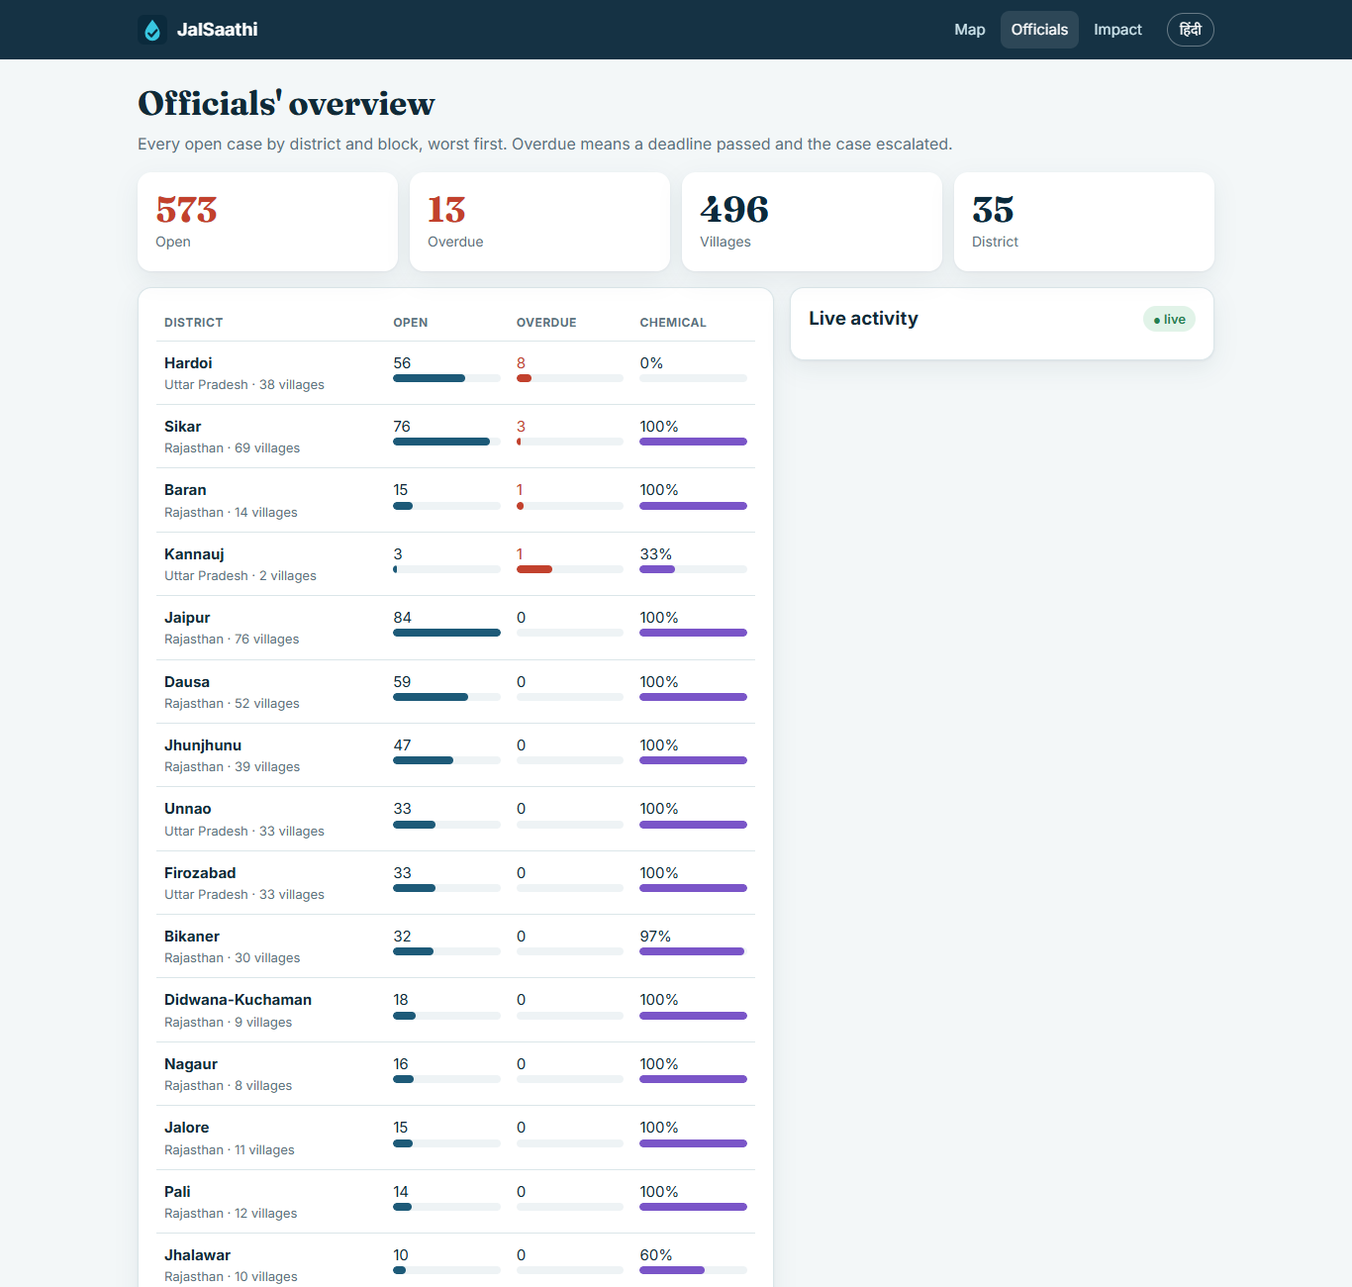
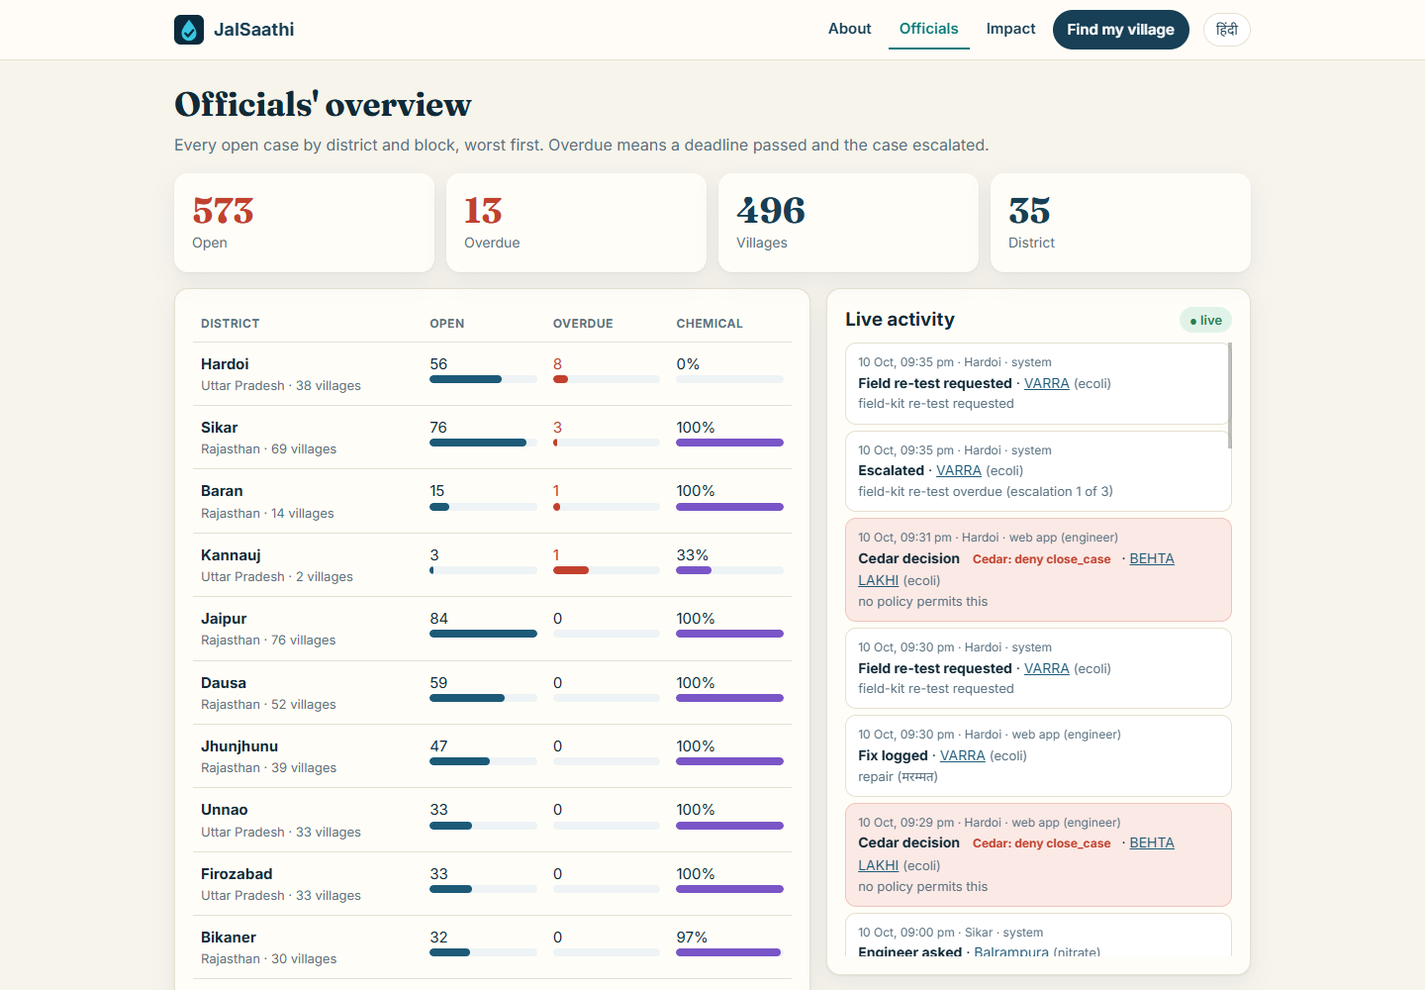
docs: README to judging standard; /app restyled to the shared identity
- README: live try-it links, results at a glance (strong and weak numbers with
  sources), the problem with citations, how it works with screenshots, a
  mermaid architecture, every AWS service and its job, AWS open source used,
  safety and honesty, run/deploy, team and credits, AI tools
- docs/img: fresh screenshots of the live site (real-browser waits)
- app/: ivory/ink tokens and a light header matching the village site; nav
  goes back to About and Find my village

diff --git a/app/src/styles.css b/app/src/styles.css
@@ -1,12 +1,14 @@
 :root {
-  --ink: #0b2a3c;
+  --ink: #173f55;
   --ink-2: #134159;
   --ink-3: #1d5a78;
   --water: #38c6e0;
   --water-soft: #d9f4f9;
-  --paper: #f3f7f8;
-  --card: #ffffff;
-  --line: #dbe6e9;
+  --paper: #f7f4ec;
+  --card: #fffdf8;
+  --line: #e7e0d0;
+  --teal: #087a79;
+  --gold: #c9a66b;
   --text: #102a37;
   --muted: #587080;
   --red: #c2412d;
@@ -40,15 +42,18 @@ html[lang="hi"] .display { font-family: "Noto Sans Devanagari", var(--display); 
 .spacer { flex: 1; }
 
 /* Header */
-.top { position: sticky; top: 0; z-index: 20; background: rgba(11, 42, 60, 0.96); backdrop-filter: blur(8px); color: #fff; }
+.top { position: sticky; top: 0; z-index: 20; background: rgba(255, 253, 248, 0.94); backdrop-filter: blur(8px); color: var(--ink); border-bottom: 1px solid var(--line); }
 .top .wrap { display: flex; align-items: center; gap: 14px; height: 60px; }
-.brand { display: flex; align-items: center; gap: 10px; color: #fff; text-decoration: none; font-weight: 700; font-size: 18px; }
+.brand { display: flex; align-items: center; gap: 10px; color: var(--ink); text-decoration: none; font-weight: 700; font-size: 18px; }
 .brand img { width: 30px; height: 30px; }
-.nav { display: flex; gap: 4px; margin-left: auto; }
-.nav a { color: #cfe6ee; text-decoration: none; padding: 7px 11px; border-radius: 9px; font-size: 15px; }
-.nav a.active, .nav a:hover { background: rgba(255, 255, 255, 0.1); color: #fff; }
-.lang { border: 1px solid rgba(255, 255, 255, 0.35); background: transparent; color: #fff; border-radius: 99px; padding: 5px 12px; font-size: 14px; }
-@media (max-width: 640px) { .nav a { padding: 6px 7px; font-size: 14px; } .brand span { display: none; } }
+.nav { display: flex; align-items: center; gap: 6px; margin-left: auto; }
+.nav a { color: var(--ink); text-decoration: none; padding: 7px 11px; border-radius: 9px; font-size: 15px; font-weight: 600; border-bottom: 2px solid transparent; }
+.nav a.active, .nav a:hover { color: var(--teal); border-bottom-color: var(--teal); border-radius: 0; }
+.nav a.nav-primary { background: var(--ink); color: #fff; border-radius: 999px; padding: 8px 15px; border: 0; }
+.nav a.nav-primary:hover { background: var(--teal); color: #fff; }
+.lang { border: 1px solid var(--line); background: #fff; color: var(--ink); border-radius: 99px; padding: 5px 12px; font-size: 14px; }
+:focus-visible { outline: 3px solid var(--gold); outline-offset: 3px; }
+@media (max-width: 640px) { .nav a { padding: 6px 7px; font-size: 13px; } .nav a.nav-primary { padding: 7px 11px; } .brand span { display: none; } }
 
 /* Hero */
 .hero { background: radial-gradient(1200px 400px at 80% -10%, #1d6f92 0%, transparent 60%), linear-gradient(160deg, var(--ink) 0%, var(--ink-2) 100%); color: #fff; padding: 56px 0 96px; position: relative; overflow: hidden; }

diff --git a/app/src/i18n.jsx b/app/src/i18n.jsx
@@ -3,7 +3,7 @@ import { createContext, useContext, useEffect, useState } from "react";
 // Every UI sentence in English and Hindi. Case advice and status text come from the API in both languages.
 const T = {
   en: {
-    nav_map: "Map", nav_officials: "Officials", nav_impact: "Impact", lang_switch: "हिंदी",
+    nav_map: "Map", nav_officials: "Officials", nav_impact: "Impact", lang_switch: "हिंदी", nav_about: "About", nav_find: "Find my village",
     search_label: "Is your village's water safe?", search_try: "Try:", map_title: "Every failed test, on the map",
     use_title: "Use JalSaathi", use_body: "Four people make a case close. Open each screen and act: the 13 demo villages are open to everyone; real villages need the signed link we send their relay and engineer.",
     role_villager: "Villager", role_villager_does: "Find your village: is the water safe, what to do now, in Hindi or English, with a voice note. Turn on alerts.", role_villager_go: "Check a village",
@@ -74,7 +74,7 @@ const T = {
     class_microbial: "bacteria", class_chemical: "chemical", class_physical: "physical", class_aesthetic: "taste", relay_link_ok: "Signed in by your village link",
   },
   hi: {
-    nav_map: "नक्शा", nav_officials: "अधिकारी", nav_impact: "असर", lang_switch: "English",
+    nav_map: "नक्शा", nav_officials: "अधिकारी", nav_impact: "असर", lang_switch: "English", nav_about: "परिचय", nav_find: "अपना गांव खोजें",
     search_label: "क्या आपके गाँव का पानी सुरक्षित है?", search_try: "देखें:", map_title: "हर फेल जांच, नक्शे पर",
     use_title: "JalSaathi इस्तेमाल करें", use_body: "एक मामला चार लोगों से बंद होता है। हर स्क्रीन खोलें और काम करें: 13 डेमो गाँव सबके लिए खुले हैं; असली गाँवों के लिए उनके संपर्क व्यक्ति और इंजीनियर को लिंक भेजा जाता है।",
     role_villager: "गाँव के लोग", role_villager_does: "अपना गाँव खोजें: पानी सुरक्षित है या नहीं, अभी क्या करें, हिंदी या English में, आवाज़ के साथ। सूचनाएं चालू करें।", role_villager_go: "गाँव देखें",

diff --git a/app/src/main.jsx b/app/src/main.jsx
@@ -16,11 +16,12 @@ function Header() {
   return (
     <header className="top">
       <div className="wrap">
-        <a className="brand" href="/app/"><img src="/app/icon.svg" alt="" /><span>JalSaathi</span></a>
+        <a className="brand" href="/"><img src="/app/icon.svg" alt="" /><span>JalSaathi</span></a>
         <nav className="nav">
-          <NavLink to="/" end>{t("nav_map")}</NavLink>
+          <a href="/">{t("nav_about")}</a>
           <NavLink to="/officials">{t("nav_officials")}</NavLink>
           <NavLink to="/impact">{t("nav_impact")}</NavLink>
+          <a className="nav-primary" href="/?find">{t("nav_find")}</a>
         </nav>
         <button className="lang" onClick={() => setLang(lang === "hi" ? "en" : "hi")}>{t("lang_switch")}</button>
       </div>

diff --git a/README.md b/README.md
@@ -1,41 +1,141 @@
-# JalSaathi
+# JalSaathi (जलसाथी): clear water can still make a child sick
 
-**Turns failed drinking-water lab tests into Hindi alerts for the village, advice that is right for the contaminant, and a tracked fix that closes only when a re-test passes.**
+[![CI](https://github.com/23f2001033/Environmental-Hacks/actions/workflows/ci.yml/badge.svg)](https://github.com/23f2001033/Environmental-Hacks/actions/workflows/ci.yml)
 
-Built for **Environmental Hacks** (WeMakeDevs × AWS, Bharat Builds Tour, event 02), **Heat and Water** track, 8–11 October 2026.
+**When a government lab finds a village's drinking water unsafe, JalSaathi tells the people who drink it what to do (in Hindi or English, by text and by voice), makes the block engineer responsible for the fix, and keeps the case open until a re-test proves the water safe.**
 
-> Status: planning complete, build starting Fri 9 Oct 2026, 21:00 IST. Live status is in [state.md](state.md).
+Built for **Environmental Hacks** (WeMakeDevs × AWS, Bharat Builds Tour, event 02), **Heat and Water** track, 8–11 October 2026. Running on AWS in Mumbai (`ap-south-1`) on real government data.
 
-## The idea in one paragraph
+**Try it:** [the site](https://d2735023v3xj6.cloudfront.net) · [a village page](https://d2735023v3xj6.cloudfront.net/?v=412558) · [the Telegram bot](https://t.me/Srott_bot?start=v_412558) (Hindi; send `/english`) · [engineer screen](https://d2735023v3xj6.cloudfront.net/app/engineer/5037?k=demo) · [health-worker screen](https://d2735023v3xj6.cloudfront.net/app/relay/412558?k=demo) · [officials' live feed](https://d2735023v3xj6.cloudfront.net/app/officials)
 
-Government labs under Jal Jeevan Mission already test village drinking water and publish every failure on a public portal (JJM-WQMIS). This year alone they found E. coli in the piped-water sources of 2,616 villages. Water carrying E. coli often looks clear, and nitrate, fluoride and arsenic are invisible, so villagers cannot notice the danger themselves, and the results never reach them. JalSaathi reads those failures, opens a case for each village, sends the anganwadi worker a Hindi alert with a voice note and a printable poster, tells her what to do for that specific contaminant (boil for E. coli; never boil for nitrate), asks the block engineer to fix the source, and keeps the case open until a field-kit test and then a lab test pass.
+![The About page: every dot is a village whose drinking water failed a government lab test this year](docs/img/about.png)
 
-## Read these first
+## Results at a glance
 
-| Document | What it covers |
+Numbers from the live system and the committed WQMIS snapshot (9 Oct 2026). The weak ones are here too.
+
+| | Result | Source |
+|---|---|---|
+| **Real cases** | **573** failed lab tests in **496 villages**, 35 districts of Uttar Pradesh and Rajasthan (560 from the snapshot + 13 hand-checked demo records) | `/api/v1/stats` |
+| **How long the result has sat unused** | Median **105 days** since the lab found it; **74%** older than 60 days. The portal records it; nothing in it tells the village or forces a fix | [`data/analysis/days_since_test.json`](data/analysis/days_since_test.json) |
+| **Why "just boil it" is wrong** | **87%** (499 of 573) are nitrate, fluoride or arsenic: boiling doesn't help, and concentrates nitrate | `/api/v1/stats` → `open_by_code` |
+| **Same failure next year** | **149 of 1,233** villages (12.1%) that failed in 2025-26 failed the same test again in 2026-27, with half the year still to come | [`data/analysis/repeat_failures.json`](data/analysis/repeat_failures.json) |
+| **Scale** | One Step Functions Distributed Map started **560 of 560** case workflows in **611 s**, **0 failed**, paced to fit a new account's Lambda limit of 10 | `/api/v1/stats` → `scale_run` |
+| **Estimated cost** | About **$0.43** for those 560 cases (≈ $0.0008 per case), mostly geocoding; voice notes are made only when someone listens. An estimate from list prices | [`src/jalsaathi/costs.py`](src/jalsaathi/costs.py) |
+| **Alert time** | Failed test → village warned: median **5 s** (demo run). Ask JalSaathi answers in **2–10 s**; Hindi speech to text in about **3 s** | `/api/v1/stats` → `alert_latency`; measured |
+| **Answers checked** | Every model answer must be grounded in the village's own results (Bedrock Guardrails, threshold 0.7) and pass Cedar, or the person gets the official advice instead | [D-32](docs/DECISIONS.md) |
+| **Weak: map pins** | Only **172 of 496** pins are at the village; 202 at the block centre, 119 at the district centre (drawn hollow), 3 unplaced. The geocoder put villages in the wrong district, so we only trust name + district matches | [D-29](docs/DECISIONS.md) |
+| **Weak: not yet in the field** | No real villager or engineer has used it yet. The **lab re-test is simulated** in the demo (labelled on screen); the field kit only makes a case *provisionally* safe | — |
+| **Weak: reach** | Telegram and a web app need a smartphone. Posters with a QR code and forwarding the voice note are the bridge for now; SMS and phone calls are next | — |
+| **Tests** | 226 backend tests + 9 frontend tests, run in CI on every pull request | [`tests/`](tests), [`frontend/tests/`](frontend/tests) |
+
+## The problem
+
+Jal Jeevan Mission labs test village drinking water and publish every failure on a public portal, [JJM-WQMIS](https://ejalshakti.gov.in/WQMIS/Main/report). This year (April to 9 Oct 2026) they found E. coli in the piped-water sources of 2,616 villages, nitrate in 3,090 and fluoride in 1,359. The failure is recorded, but nothing carries it to the family drinking the water, and nothing forces a fix: water with E. coli looks clear, and nitrate, fluoride and arsenic are invisible. The CAG found 897 failed samples in Jammu and Kashmir that were never referred onward ([Report No. 10 of 2025](https://cag.gov.in/en/audit-report/details/123724)). When a warning does exist, it is usually "boil your water", which is right for bacteria and wrong for nitrate. Full sources: [docs/RESEARCH.md](docs/RESEARCH.md).
+
+## How it works
+
+1. **The lab result arrives.** We read JJM-WQMIS the way its own pages do (UP and Rajasthan), with a guard that refuses partial portal responses.
+2. **The village is warned.** One AWS Step Functions workflow per case sends a Hindi or English alert with an Amazon Polly voice note to the village's health worker on Telegram and in the app (Web Push), with the advice for *that* contaminant. A Cedar policy forbids "boil" for chemical contamination.
+3. **People ask questions by voice.** "क्या मैं इस पानी को उबालकर पी सकता हूं?" Amazon Transcribe → Amazon Translate → a **Strands agent on Amazon Bedrock** that may only read this village's results → **Bedrock Guardrails** checks the answer is grounded → Cedar → Translate → Polly speaks the answer.
+4. **The engineer is accountable.** The block engineer gets the case with a deadline (Telegram or the engineer screen). A missed deadline escalates, and an **EventBridge Scheduler** job emails each district official (**Amazon SES**) the overdue cases.
+5. **Only a re-test closes it.** "Close case" from the engineer is refused by a Cedar policy in **Amazon Verified Permissions**. A field-kit photo (read by **Bedrock Nova Pro** as a suggestion; the person decides) makes it provisionally safe; only a passing lab re-test closes it.
+
+| Village page (Hindi or English, voice note, poster) | Engineer screen: log the fix; closing is refused |
 |---|---|
-| [PRD.md](PRD.md) | The product: problem, users, requirements, scope, success metrics, release criteria |
-| [docs/BUILD_PLAN.md](docs/BUILD_PLAN.md) | Architecture, components, contracts, lanes and tasks, timeline, team workflow, testing, video |
-| [docs/DECISIONS.md](docs/DECISIONS.md) | Every major decision, the options we weighed, and why we chose what we did |
-| [docs/SETUP.md](docs/SETUP.md) | Everything that must be ready before and during the build, with owners and status |
-| [docs/RESEARCH.md](docs/RESEARCH.md) | Evidence, data verification, AWS checks, competitor landscape, ideas we rejected |
-| [state.md](state.md) | Live status: done, in progress, blockers, decisions needed |
+| ![Village page for Behta Lakhi](docs/img/village.png) | ![Engineer screen for Harpalpur block](docs/img/engineer.png) |
+| **Officials: every district and block, live activity feed** | **Village page on a phone, in Hindi** |
+| ![Officials' overview](docs/img/officials.png) | <img src="docs/img/village-phone-hi.png" alt="Village page on a phone in Hindi" width="300"> |
+
+## Architecture
+
+```mermaid
+flowchart LR
+  WQ["JJM-WQMIS<br/>government lab results"] --> ING["Ingest Lambda<br/>parse · guard · plan"]
+  SCH["EventBridge Scheduler"] --> ING
+  ING --> LOC["Amazon Location<br/>geocode, checked"]
+  ING --> DDB[("DynamoDB")]
+  ING --> MAP["Step Functions<br/>Distributed Map"]
+  MAP --> SFN["Step Functions<br/>one workflow per case<br/>task tokens · deadlines"]
+  SFN --> STEP["Case-step Lambda"]
+  STEP --> AVP["Verified Permissions<br/>Cedar rules"]
+  STEP --> POL["Amazon Polly<br/>Hindi + English"]
+  STEP --> TG["Telegram bot"]
+  STEP --> PUSH["Web Push"]
+  TG --> HOOK["Webhook Lambda<br/>(function URL)"]
+  HOOK --> TR["Transcribe → Translate"] --> AG["Strands agent<br/>Bedrock Nova Pro"] --> GR["Bedrock Guardrails"]
+  HOOK --> NOVA["Bedrock Nova Pro<br/>kit-photo hint"]
+  WEB["Web app<br/>S3 + CloudFront"] --> API["API Gateway + API Lambda"] --> DDB
+  ING --> SES["Amazon SES<br/>district digest"]
+  STEP -.-> XR["X-Ray · CloudWatch<br/>metrics + dashboard"]
+```
+
+| AWS service | What it does here |
+|---|---|
+| **AWS Step Functions** | One Standard workflow per case (task tokens wait for the engineer, the field kit and the lab; deadlines escalate, at most three times); an Express **Distributed Map** starts hundreds of cases at a steady pace |
+| **AWS Lambda** | Ingest, case steps, Telegram webhook (function URL), web API; Python 3.12 on arm64 |
+| **Amazon DynamoDB** | One table: villages, samples, cases, timelines, subscriptions, the activity feed |
+| **Amazon S3 + CloudFront** | Both web apps, voice notes and kit photos (private); a CloudFront Function routes the single-page apps |
+| **Amazon API Gateway** | The public `/api/v1` (HTTP API) |
+| **Amazon Polly** | Kajal neural voice: every alert and answer as a Hindi or English voice note |
+| **Amazon Transcribe** | Streaming Hindi speech-to-text for voice questions (Telegram's OGG/Opus as is) |
+| **Amazon Translate** | Hindi ↔ English around the agent |
+| **Amazon Bedrock** | Nova Pro: the Ask JalSaathi agent and the field-kit photo hint |
+| **Bedrock Guardrails** | Contextual grounding of every answer against the facts the agent read; content filters; PII masking |
+| **Amazon Verified Permissions** | The four Cedar rules (close only on a lab pass; kit only provisional; never "boil" for chemicals) decide every action |
+| **Amazon Location Service** | Geocoding (accepted only on a name + district match) and the map tiles (API key restricted to our site) |
+| **Amazon SES + EventBridge Scheduler** | The district digest: one email per district official with the overdue cases, only when something changed |
+| **AWS Systems Manager Parameter Store** | Bot token, webhook secret, admin token, Web Push key: encrypted, never in code |
+| **Amazon CloudWatch + AWS X-Ray** | Business metrics (cases, alerts, fixes, questions, Cedar refusals, grounding score) on a dashboard; traces across every AWS call |
+| **AWS CDK** (Python) | The whole stack, one `cdk deploy` |
+
+**AWS open source:** [AWS CDK](https://github.com/aws/aws-cdk) (infrastructure), [Cedar](https://github.com/cedar-policy) (the case rules, evaluated locally as a fallback via `cedarpy`), [Strands Agents](https://github.com/strands-agents/sdk-python) (the Ask JalSaathi agent), [Amazon Transcribe streaming SDK](https://github.com/awslabs/amazon-transcribe-streaming-sdk), boto3.
+
+## Safety and honesty by design
+
+- **Rules in policy, not in prompts.** Closing a case, marking it provisional, and what a message may say are Cedar policies in Verified Permissions. Any evaluation error is a deny.
+- **The model never decides the advice.** The advice library (`content/advice.json`, with sources) is written by people; the agent may only rephrase facts from the village's own record, and Guardrails checks it did.
+- **Simulated parts are labelled on screen:** the lab re-test button and the demo clock (minutes instead of days). 13 hand-checked demo villages are open to everyone; real villages need a signed link for relay and engineer actions.
+- **Privacy:** people join only after a consent message; `/stop` deletes their subscriptions and settings; we never see or store phone numbers (only a Telegram chat ID); kit photos are kept private with the case, never published.
+- **Every decision is recorded** on the case timeline and in the officials' feed.
+
+Design decisions and the reasoning behind each: [docs/DECISIONS.md](docs/DECISIONS.md) (34 decisions, including what we tried and dropped).
+
+## Run it
+
+```bash
+python -m venv .venv && .venv/Scripts/pip install -r requirements-dev.txt   # Python 3.12
+.venv/Scripts/python -m pytest -q                                           # 226 tests, no AWS needed
+cd frontend && npm ci && npm test && npm run build                          # village site (Vite)
+cd ../app && npm ci && npm run build                                        # role screens (React + Vite)
+cd .. && python scripts/build.py && npx aws-cdk@2 deploy                    # Lambda bundle + layer, then the stack
+python scripts/set_webhook.py                                               # point the Telegram bot at the webhook
+python scripts/demo.py restart-demo                                         # fresh demo cases
+```
+
+Setup details and secrets: [docs/SETUP.md](docs/SETUP.md). API contract: [docs/API.md](docs/API.md). Status log: [state.md](state.md). Video script: [video/SCRIPT.md](video/SCRIPT.md).
+
+| Folder | What's in it |
+|---|---|
+| `src/jalsaathi/` | The backend: ingest, case steps, Telegram webhook, API, assistant, policy, digest |
+| `infra/` | The CDK stack and the CloudWatch dashboard |
+| `frontend/` | The village site at `/` (About, Find my village, village and block pages) |
+| `app/` | The role screens at `/app/` (engineer, health worker, officials, impact) |
+| `content/`, `policies/` | The advice library and the Cedar rules |
+| `data/` | WQMIS snapshot, demo records, analyses |
+| `scripts/` | Build, deploy, demo, analysis, setup |
 
 ## Team
 
-| GitHub | Proposed lane (confirm in the group) |
+| | Contributions |
 |---|---|
-| [@23f2001033](https://github.com/23f2001033) (Aman) | Lane 2: workflow, infrastructure, deploys |
-| [@reshmag2023-boop](https://github.com/reshmag2023-boop) (Reshma) | Lane 1: data and proof |
-| [@faizsaleem8](https://github.com/faizsaleem8) | Lane 3: Telegram bot and web UI |
-| [@U-m-4r](https://github.com/U-m-4r) (Umar) | Lane 4: Hindi review, QA, video and submission |
+| **Aman** ([@23f2001033](https://github.com/23f2001033)) | Team lead; idea and research; AWS architecture and deployment; backend, workflow, assistant and policies (with Claude Code); reviews and merges |
+| **Reshma** ([@reshmag2023-boop](https://github.com/reshmag2023-boop)) | WQMIS portal client and the guarded ingestion validation; demo coordinates; the evidence behind every slide number |
+| **Faiz** ([@faizsaleem8](https://github.com/faizsaleem8)) | The village-first web design (`frontend/`): village report, directory, block queue, poster |
+| **Umar** ([@U-m-4r](https://github.com/U-m-4r)) | Phone testing and QA, Hindi review, the About-page design brief, the demo video |
 
-## Data and credits
+## Data, credits and AI tools
 
-- Drinking-water test results: **Jal Jeevan Mission Water Quality Management Information System (JJM-WQMIS)**, Department of Drinking Water and Sanitation, Ministry of Jal Shakti, Government of India. Public reports at <https://ejalshakti.gov.in/WQMIS/Main/report>. We show the "data as of" date on every page.
-- Limits: **IS 10500:2012** (Bureau of Indian Standards), as returned with each sample by WQMIS.
-- Other credits (fonts, libraries, map data) are listed in [docs/BUILD_PLAN.md](docs/BUILD_PLAN.md#credits) as they are added.
-
-## AI tools used
-
-The event rules ask every team to list its AI tools. We use **Claude Code (Anthropic)** for research, planning, documentation and code, driven and reviewed by the team.
+- **Data:** Jal Jeevan Mission Water Quality Management Information System (JJM-WQMIS), Department of Drinking Water and Sanitation, Ministry of Jal Shakti, Government of India. Limits per IS 10500:2012 as returned with each sample. JalSaathi relays government test information; it does not certify water and is not a government service.
+- **Libraries and fonts:** MapLibre GL JS (BSD-3-Clause), React, Vite, node-qrcode (MIT), cedarpy, Strands Agents, Amazon Transcribe streaming SDK (Apache-2.0); Fraunces, Tiro Devanagari Hindi, Noto Sans Devanagari, DM Sans, Inter (SIL OFL); map tiles © AWS, HERE.
+- **AI tools used:** **Claude Code** (Anthropic) for research, planning, documentation and most of the code, driven and reviewed by the team. At runtime the product uses Amazon Bedrock (Nova Pro), always behind Guardrails and Cedar.
